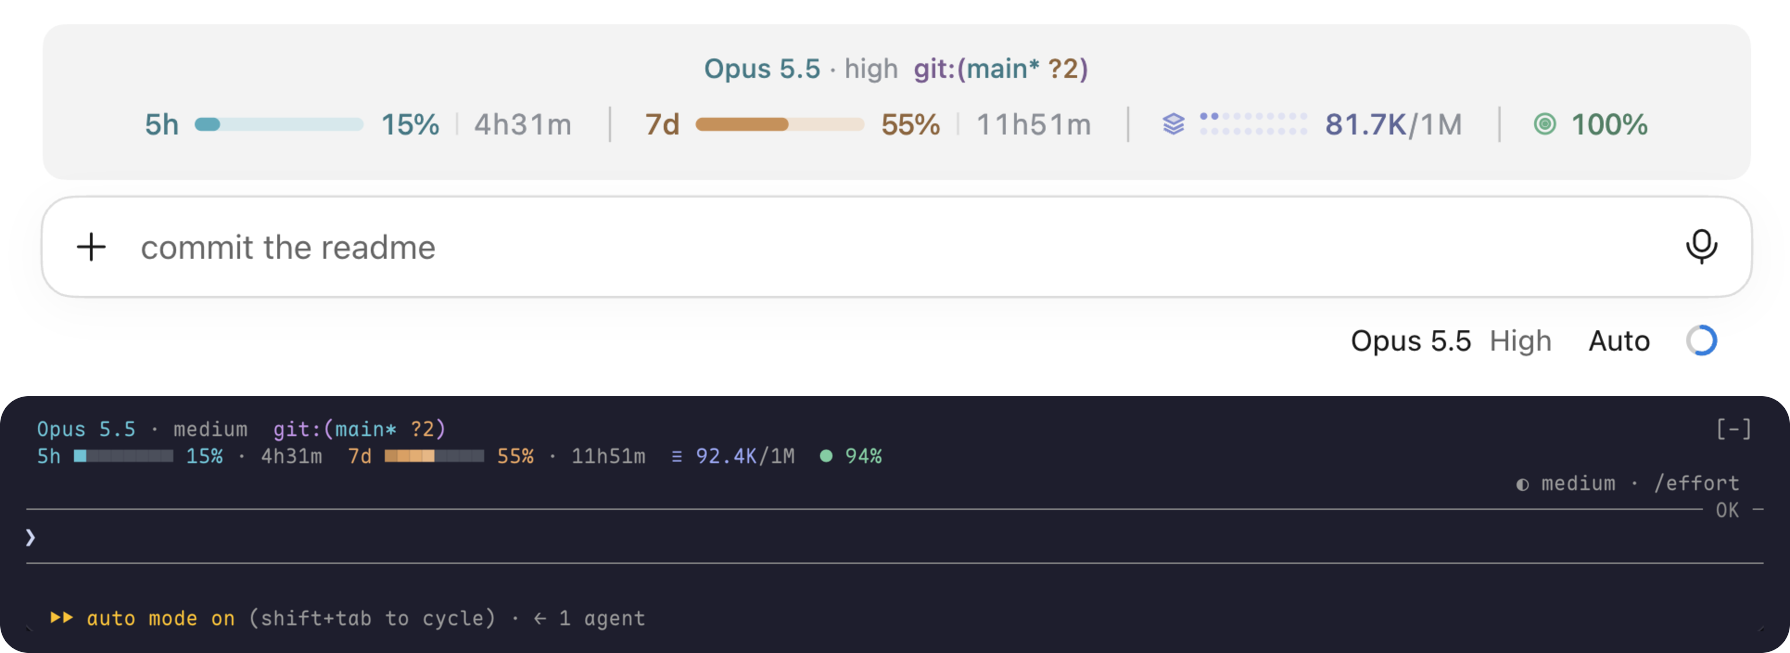
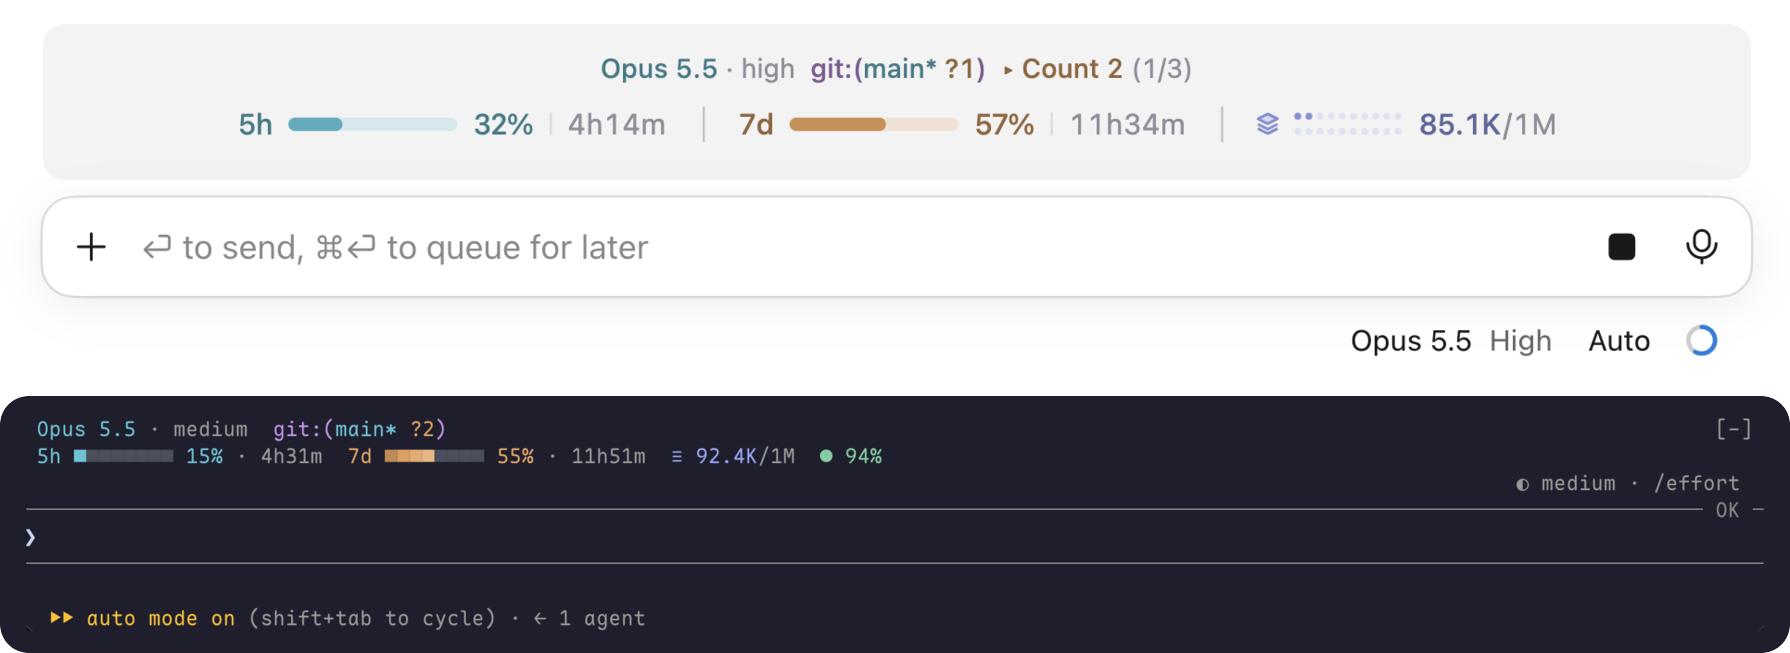
Show the todo group in the desktop screenshots
Replace the desktop captures and the banner with ones showing a task in
progress, and add a capture of the list once every task is done.

diff --git a/README.md b/README.md
@@ -165,7 +165,11 @@ Issues and pull requests are welcome.
 
 **Desktop app, light mode**
 
-<img src="docs/images/desktop-light-app.png" alt="usage-band-plus in the desktop app, light mode" width="760">
+<img src="docs/images/desktop-light-app.png" alt="usage-band-plus in the desktop app, light mode, with a task in progress" width="760">
+
+Once every task is done, the todo group turns to a green tick:
+
+<img src="docs/images/desktop-light-done.png" alt="usage-band-plus in the desktop app, light mode, with all tasks done" width="760">
 
 **Desktop app, dark mode**
 

diff --git a/README.zh-CN.md b/README.zh-CN.md
@@ -167,7 +167,11 @@ claude plugin test .
 
 **桌面端，浅色模式**
 
-<img src="docs/images/desktop-light-app.png" alt="usage-band-plus 在桌面端的浅色模式效果" width="760">
+<img src="docs/images/desktop-light-app.png" alt="usage-band-plus 在桌面端的浅色模式效果，有任务正在进行" width="760">
+
+所有任务完成后，待办一栏变成绿色的对勾：
+
+<img src="docs/images/desktop-light-done.png" alt="usage-band-plus 在桌面端的浅色模式效果，任务全部完成" width="760">
 
 **桌面端，深色模式**
 
